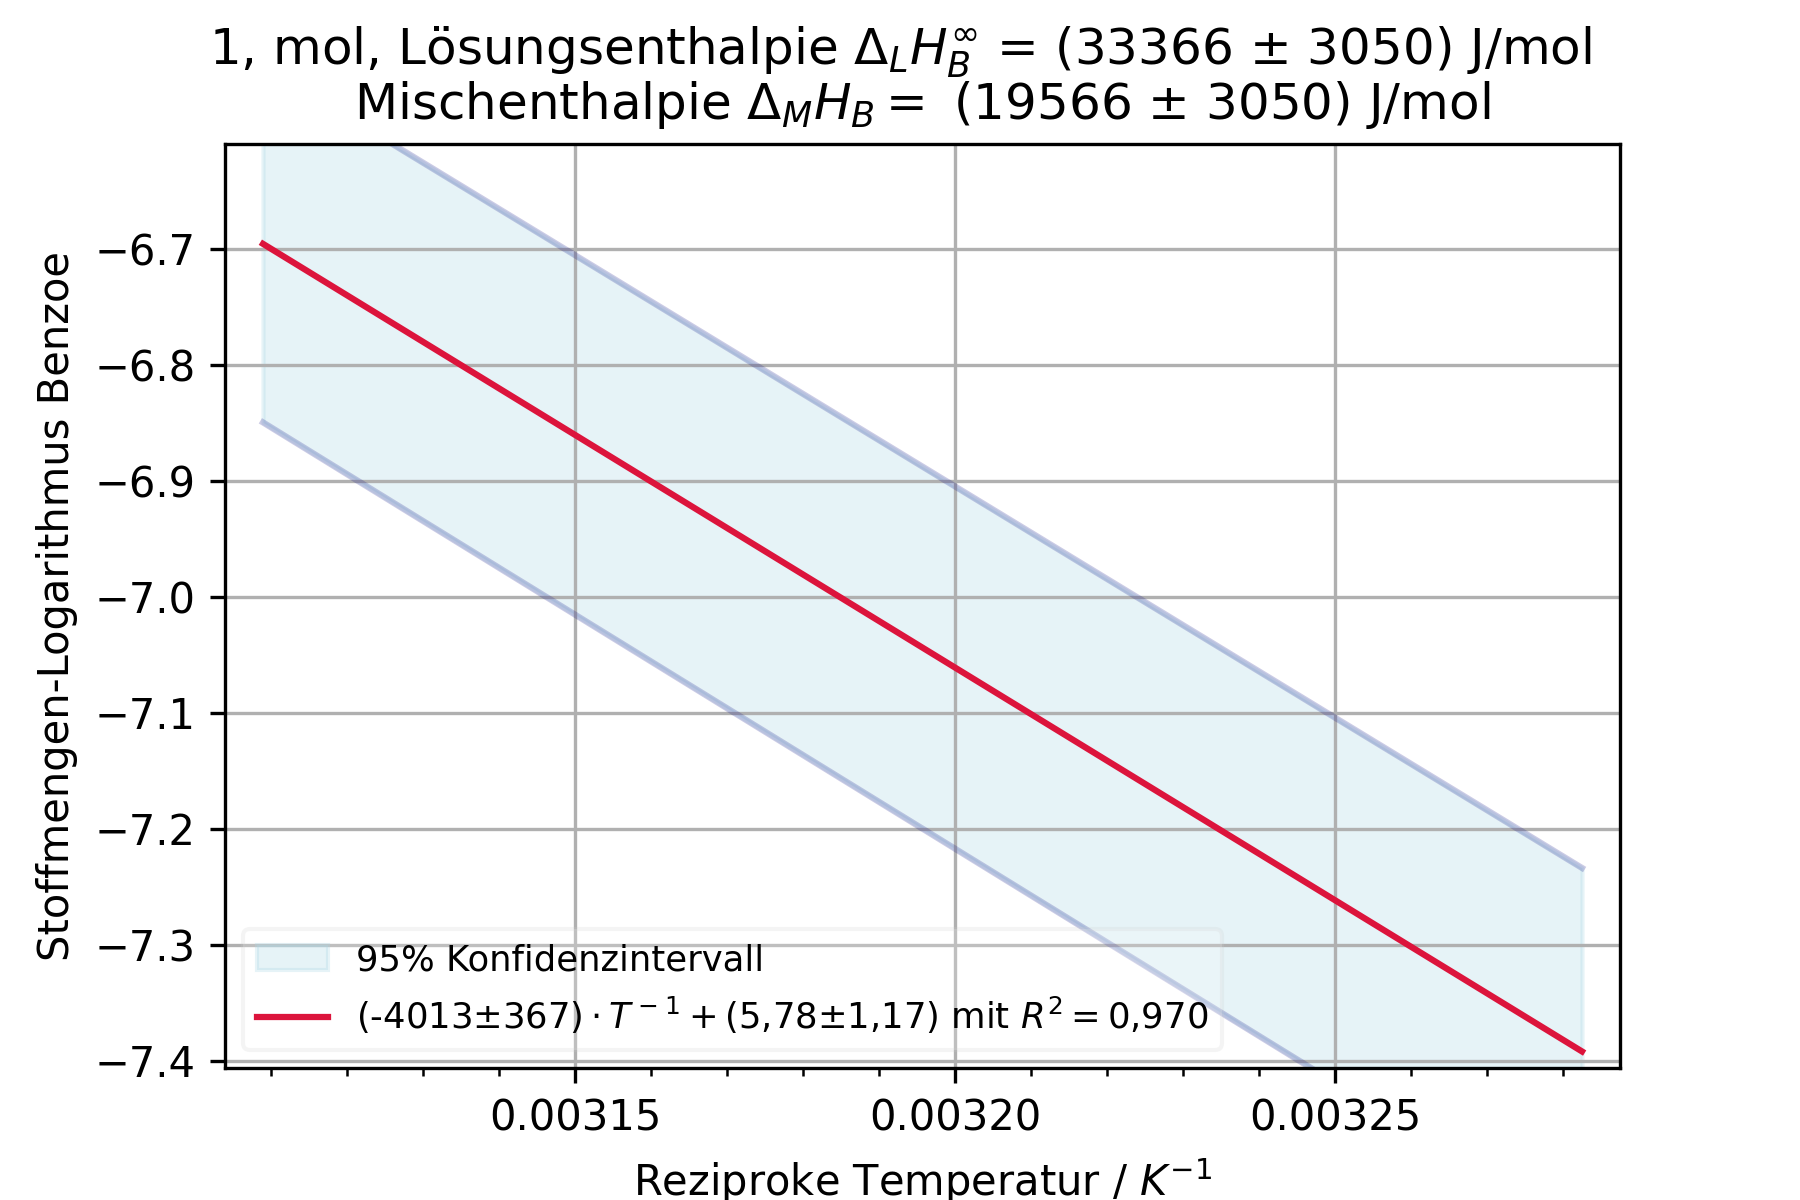
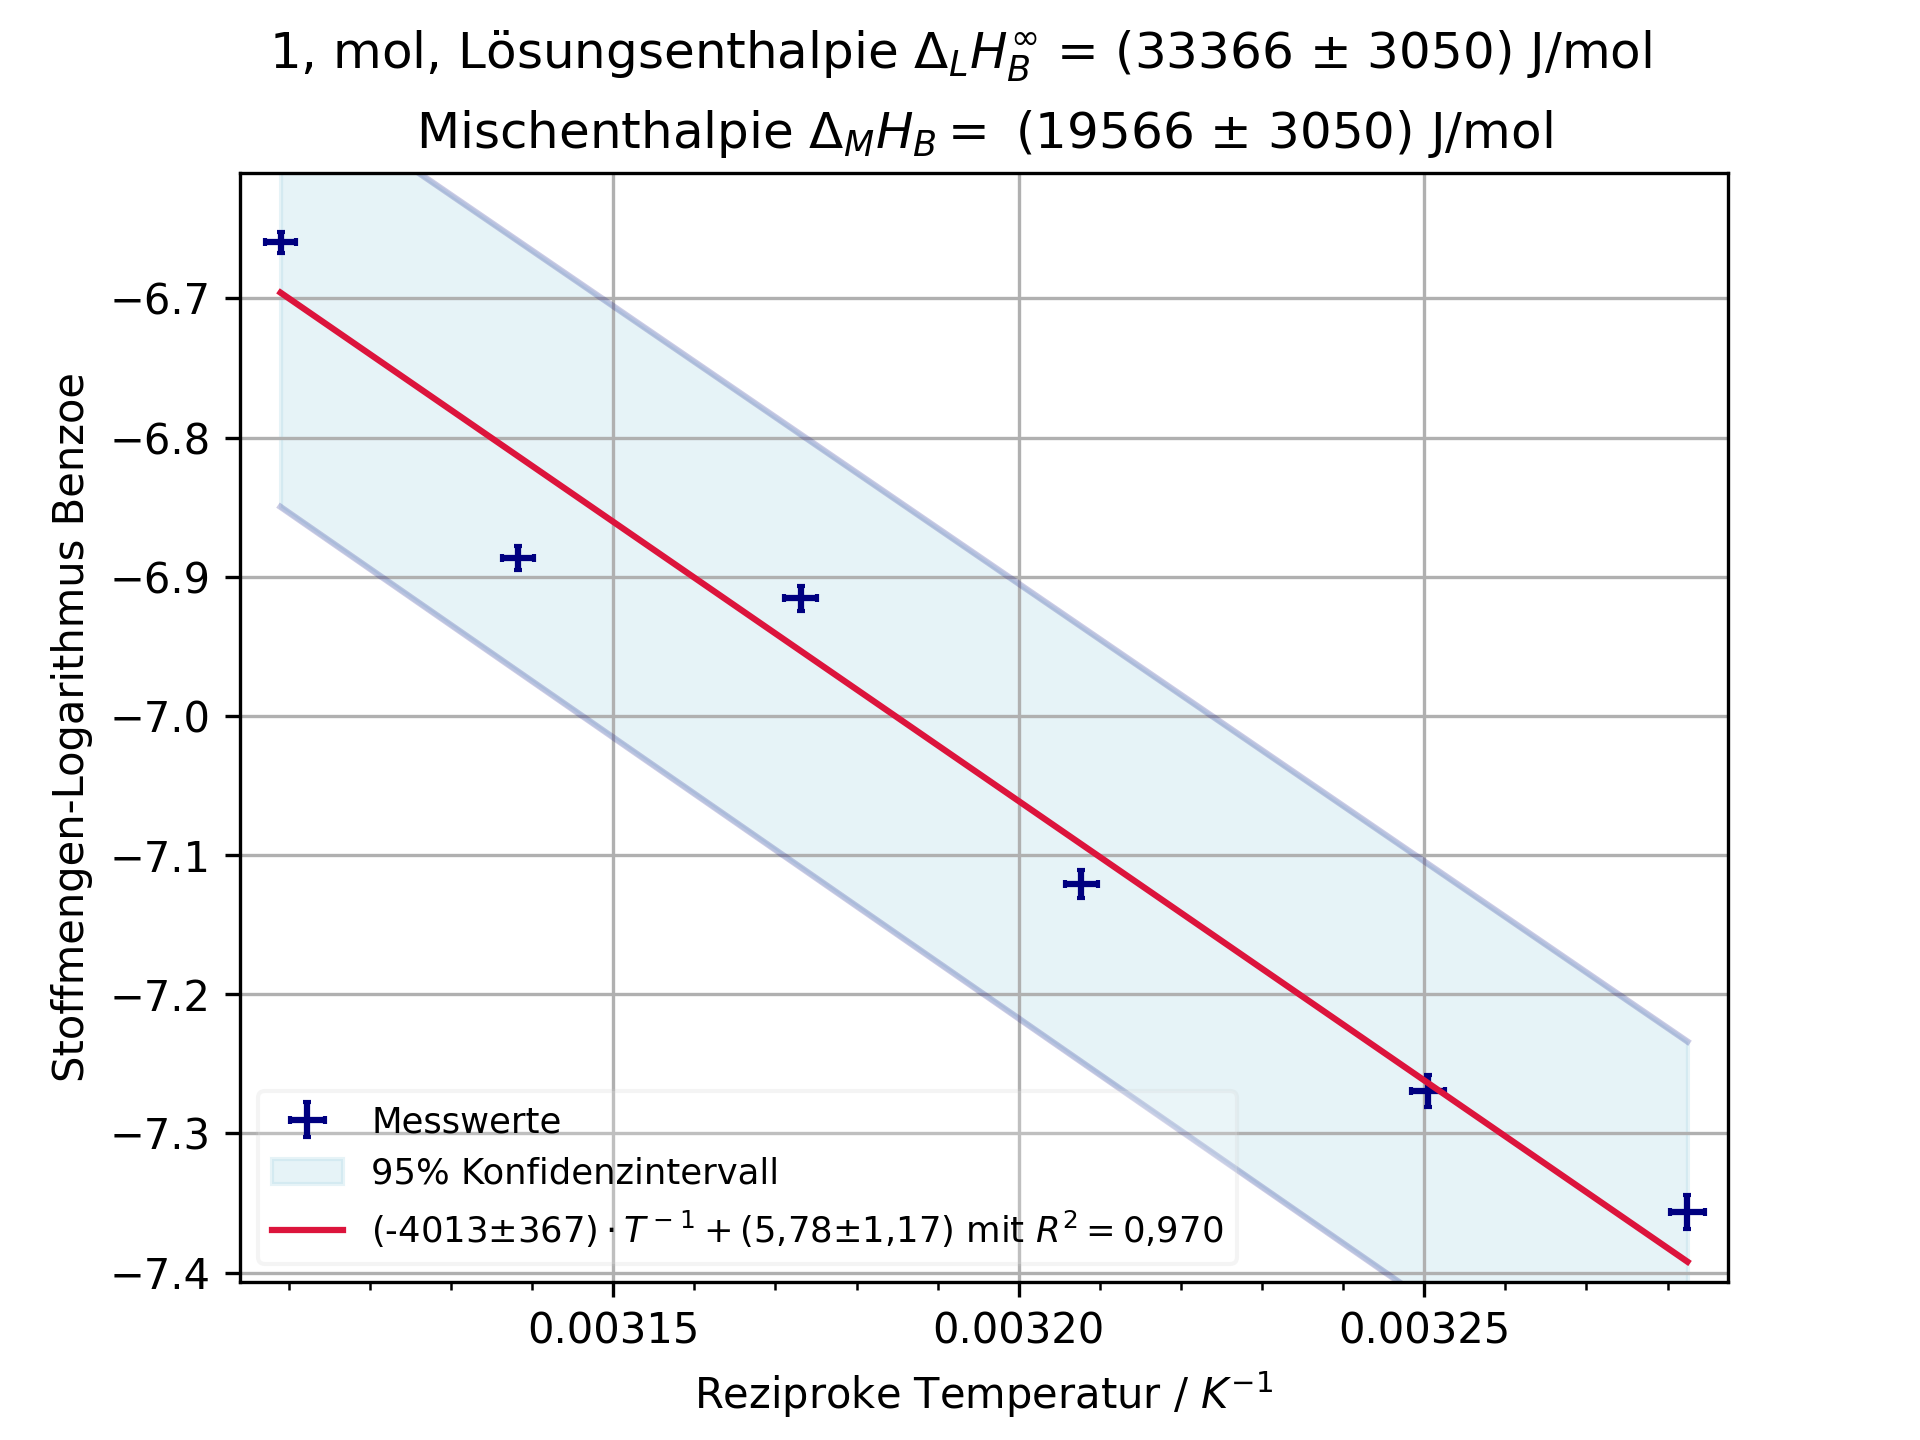
modified:   Daten/Ideal_SS_25.csv 	new file:   Daten/Wasser_SS_23.csv 	new file:   Daten/Wasser_WS_22_23.csv 	new file:   Daten/Wasser_WS_23_24.csv 	renamed:    Daten/Wasser_WS_24-25.csv -> Daten/Wasser_WS_24_25.csv 	modified:   "L\303\266sungen.py" 	new file:   PNG/Wasser_SS_23/Wasser A1 Benzoe.png

diff --git a/Lösungen.py b/Lösungen.py
@@ -8,29 +8,23 @@ from matplotlib.ticker import MultipleLocator
 import os
 
 
-global ax, fig
 fig, ax = plt.subplots()
-fig.set_size_inches(6, 4)
+
 path = os.path.dirname(os.path.abspath(__file__))
-# CTable = ['deeppink', 'purple', 'indigo', 'blue', 'cornflowerblue', 'cadetblue', 'lightseagreen', 'seagreen', 'darkorange', 'coral', 'crimson' ]
+CTable = ['deeppink', 'blue', 'seagreen', 'darkorange', 'crimson' ]
+Semester_Names = ['WS_22_23', 'SS_23', 'WS_23_24','WS_24_25', 'SS_25']
 
+Data = pd.DataFrame()
+Data_ideal = pd.DataFrame()
+for i in range(len(Semester_Names)):
+    Data_temp = pd.read_table(f'{path}\\Daten\\Wasser_{Semester_Names[i]}.csv', sep=",", header=0, index_col=0)
+    Data_temp.index = [f'{i+1}_' + str(idx) for idx in Data_temp.index]
+    Data = pd.concat([Data, Data_temp])
+    # Data_ideal_temp = pd.read_table(f'{path}\\Daten\\Ideal_{Semester_Names[i]}.csv', sep=",", header=0, index_col=0)
+    # Data_ideal_temp.index = [f'{i+1}' + str(idx) for idx in Data_ideal_temp.index]
+    # Data_ideal = pd.concat([Data_ideal, Data_ideal_temp])
+ 
 
-#Einlesen der Daten und Definition der Gruppen und Stoffe
-Data1 = pd.read_table(f'{path}\\Daten\\Wasser_WS_24-25.csv', sep=",", header=0, index_col=0)
-Data1.index = ['4_' + str(idx) for idx in Data1.index]
-
-Data2 = pd.read_table(f'{path}\\Daten\\Wasser_SS_25.csv', sep=",", header=0, index_col=0)
-Data2.index = ['5_' + str(idx) for idx in Data2.index]
-
-Data = pd.concat([Data1, Data2])
-
-Data_ideal1 = pd.read_table(f'{path}\\Daten\\Ideal_WS_24-25.csv', sep=",", header=0, index_col=0)
-Data_ideal1.index = ['4_' + str(idx) for idx in Data_ideal1.index]
-
-Data_ideal2 = pd.read_table(f'{path}\\Daten\\Ideal_SS_25.csv', sep=",", header=0, index_col=0)
-Data_ideal2.index = ['5_' + str(idx) for idx in Data_ideal2.index]
-
-Data_ideal = pd.concat([Data_ideal1, Data_ideal2])
 
 Gruppen = ['A1', 'A2', 'A3', 'A4', 'A5', 'A6', 'A7', 'B1', 'B2', 'B3', 'B4', 'B5','B6', 'B7']
 Stoffe = ['Benzoe', 'Salicyl']
@@ -70,40 +64,40 @@ def Fit(x,y,sx,sy):
 
 # Plot der Auswertung samt Konfidenzintervall und Regression
 def FitPlot(Rez_T, ln_x_B, Rez_T_Error, ln_x_B_Error, H_mLinf, H_mLinf_Error, Mischenthalpie, Mischenthalpie_Error, Gruppe, Stoff, out, plot, semester):
-    if plot == True:
-        ax.errorbar(Rez_T, ln_x_B, xerr=Rez_T_Error, yerr=ln_x_B_Error, color='navy', capsize=1, linestyle='none', label='Messwerte')
-    # Konfidenzintervalle berechnen
-    xValues = np.linspace(min(Rez_T), max(Rez_T), len(Rez_T))
-    ci = ConfidenceInterval(xValues, out)
-    ci_lower = lin(ci[:, 0], xValues)
-    ci_upper = lin(ci[:, 1], xValues)
-    ax.fill_between(xValues, ci_lower, ci_upper, color='lightblue', alpha=0.3, label='95% Konfidenzintervall')
-    ax.plot(xValues, ci_lower, color='navy', alpha=0.2)
-    ax.plot(xValues, ci_upper, color='navy', alpha=0.2)
-    # Fit-Funktion plotten
-    fy = lin(out.beta, xValues)
-    ax.plot(xValues, fy, c='crimson',label = Replacer(f'({out.beta[0]:.0f}$\pm${out.sd_beta[0]:.0f}$) \cdot T^-$$^1 + $({out.beta[1]:.2f}$\pm${out.sd_beta[1]:.2f}) mit $R^2 =${r2_score(ln_x_B, lin(out.beta, Rez_T)):.3f}'))
-    # Reihenfolge der Legende ändern
-    handles, labels = ax.get_legend_handles_labels() 
-    handles = handles[2:] + handles[:2]
-    labels = labels[2:] + labels[:2]
-    # Plot Parameter
-    plt.xlim(min(Rez_T)-0.000005, max(Rez_T)+0.000005)
-    plt.ylim(min(ln_x_B)-0.05, max(ln_x_B)+0.05)
-    ax.set(xlabel='Reziproke Temperatur / $ K^{-1}$', ylabel=f'Stoffmengen-Logarithmus {Stoff}')
-    fig.suptitle(Replacer(f'1. mol. Lösungsenthalpie $\Delta_LH_B^\infty$ = ({H_mLinf:.0f} $\pm$ {H_mLinf_Error:.0f}) J/mol'), fontsize=12)
-    ax.set_title(Replacer(f'Mischenthalpie $\Delta_MH_B =$ ({Mischenthalpie:.0f} $\pm$ {Mischenthalpie_Error:.0f}) J/mol'))
-    ax.legend(handles, labels, loc='lower left', framealpha=0.2, fontsize=8.5)
-    ax.grid()
-    ax.xaxis.set_major_locator(MultipleLocator(0.00005))
-    ax.xaxis.set_minor_locator(MultipleLocator(0.00001))
-    if semester == '4':
-        fig.savefig(f'{path}\\PNG\\Wasser_WS_24_25\\Wasser {Gruppe} {Stoff}.png', dpi=300)
-    elif semester == '5':
-        fig.savefig(f'{path}\\PNG\\Wasser_SS_25\\Wasser {Gruppe} {Stoff}.png', dpi=300)
-    elif semester == 'Zusammen':
-        fig.savefig(f'{path}\\PNG\\Zusammen_{Stoff}.png', dpi=300)
-    plt.cla()
+    if plot == True: 
+        if semester != 'Zusammen':
+            ax.errorbar(Rez_T, ln_x_B, xerr=Rez_T_Error, yerr=ln_x_B_Error, color='navy', capsize=1, linestyle='none', label='Messwerte')
+        # Konfidenzintervalle berechnen
+        xValues = np.linspace(min(Rez_T), max(Rez_T), len(Rez_T))
+        ci = ConfidenceInterval(xValues, out)
+        ci_lower = lin(ci[:, 0], xValues)
+        ci_upper = lin(ci[:, 1], xValues)
+        ax.fill_between(xValues, ci_lower, ci_upper, color='lightblue', alpha=0.3, label='95% Konfidenzintervall')
+        ax.plot(xValues, ci_lower, color='navy', alpha=0.2)
+        ax.plot(xValues, ci_upper, color='navy', alpha=0.2)
+        # Fit-Funktion plotten
+        fy = lin(out.beta, xValues)
+        ax.plot(xValues, fy, c='crimson',label = Replacer(f'({out.beta[0]:.0f}$\pm${out.sd_beta[0]:.0f}$) \cdot T^-$$^1 + $({out.beta[1]:.2f}$\pm${out.sd_beta[1]:.2f}) mit $R^2 =${r2_score(ln_x_B, lin(out.beta, Rez_T)):.3f}'))
+        # Reihenfolge der Legende ändern
+        handles, labels = ax.get_legend_handles_labels() 
+        handles = handles[2:] + handles[:2]
+        labels = labels[2:] + labels[:2]
+        # Plot Parameter
+        plt.xlim(min(Rez_T)-0.000005, max(Rez_T)+0.000005)
+        plt.ylim(min(ln_x_B)-0.05, max(ln_x_B)+0.05)
+        ax.set(xlabel='Reziproke Temperatur / $ K^{-1}$', ylabel=f'Stoffmengen-Logarithmus {Stoff}')
+        fig.suptitle(Replacer(f'1. mol. Lösungsenthalpie $\Delta_LH_B^\infty$ = ({H_mLinf:.0f} $\pm$ {H_mLinf_Error:.0f}) J/mol'), fontsize=12)
+        ax.set_title(Replacer(f'Mischenthalpie $\Delta_MH_B =$ ({Mischenthalpie:.0f} $\pm$ {Mischenthalpie_Error:.0f}) J/mol'))
+        ax.legend(handles, labels, loc='lower left', framealpha=0.2, fontsize=8.5)
+        ax.grid()
+        ax.xaxis.set_major_locator(MultipleLocator(0.00005))
+        ax.xaxis.set_minor_locator(MultipleLocator(0.00001))
+
+        if semester != 'Zusammen':
+            fig.savefig(f'{path}\\PNG\\Wasser_{Semester_Names[semester-1]}\\Wasser {Gruppe} {Stoff}.png', dpi=300)
+        else:
+            fig.savefig(f'{path}\\PNG\\Zusammen_{Stoff}.png', dpi=300)
+        plt.cla()
 
 
 # Auswertung der wässrigen Lösungen 
@@ -146,7 +140,7 @@ def Auswertung(Gruppe, Stoff, Print, semester):
         # Ideale Löslichkeit
         x_B_id = np.exp(-18000/8.31446*(1/(T_Data)-1/395.5))
         x_B_id_Error = abs(x_B_id*18000*T_Error/(8.31446*(T_Data)**2))
-    FitPlot(Rez_T, ln_x_B, Rez_T_Error, ln_x_B_Error, H_mLinf, H_mLinf_Error, Mischenthalpie, Mischenthalpie_Error, Gruppe, Stoff, out, True, semester)
+    FitPlot(Rez_T, ln_x_B, Rez_T_Error, ln_x_B_Error, H_mLinf, H_mLinf_Error, Mischenthalpie, Mischenthalpie_Error, Gruppe, Stoff, out, False, semester)
     if Print == True:
         print()
         print(f'Gruppe: {Gruppe}, Stoff: {Stoff}')
@@ -156,7 +150,6 @@ def Auswertung(Gruppe, Stoff, Print, semester):
         for i in range(len(x_B_id)):
             print(f'({x_B_id[i]:.4f} \pm {x_B_id_Error[i]:.4f}) bei ({T_Data[i]:.2f} \pm {T_Error[i]:.2f}) K')
         print()
-    
     return [Rez_T, ln_x_B, Rez_T_Error, ln_x_B_Error, H_mLinf, H_mLinf_Error, Mischenthalpie, Mischenthalpie_Error, Gruppe, semester]
 
 
@@ -199,27 +192,23 @@ def Ideal(Gruppe, Print=True):
             print(f'Die exp. Löslichkeit beträgt:   {x_B:.4g} \pm {x_B_lit:.2g}')
             print(f'Die Abweichung des exp. Werts vom Literaturwert beträgt ({100*Abweichung_ideal:.1f} \pm {100*Abweichung_Ideal_Error:.1f})%')
             print()
+        return [x_B, x_B_Error, x_B_lit, x_B_lit_Error, T_ideal, T_Error]
 
 
 # Abfrage für alle Gruppen
-def AlleAbfragen(Print = True):
+def AlleAbfragen(Semesterauswahl = [1, 2, 3, 4, 5], Probegruppe = None, Print = True):
     Salicyl = []
     Benzoe = []
-    for i in Gruppen:
-        for j in Stoffe:
-            if f'4_T({i}_{j[:1]})' in Data.index:
-                Output = Auswertung(i, j, Print, '4')
-                if j == 'Salicyl':
-                    Salicyl.append(Output)
-                elif j == 'Benzoe':
-                    Benzoe.append(Output)
-            if f'5_T({i}_{j[:1]})' in Data.index:
-                Output = Auswertung(i, j, Print, '5')
-                if j == 'Salicyl':
-                    Salicyl.append(Output)
-                elif j == 'Benzoe':
-                    Benzoe.append(Output)
-        Ideal(i, Print)
+    for k in Semesterauswahl:
+        for i in Gruppen:
+            for j in Stoffe:
+                if f'{k}_T({i}_{j[:1]})' in Data.index:
+                    Output = Auswertung(i, j, Print, k)
+                    if j == 'Salicyl':
+                        Salicyl.append(Output)
+                    elif j == 'Benzoe':
+                        Benzoe.append(Output)
+            Ideal(i, Print)
     # Plot für alle Messwerte, Wasser
     Name = ['Salicyl', 'Benzoe']
     for j in range(2):
@@ -227,15 +216,18 @@ def AlleAbfragen(Print = True):
             Stoff = Salicyl
         elif j == 1:
             Stoff = Benzoe
+        for k in Semesterauswahl:
+            plt.errorbar([],[], color=CTable[k-1], capsize=1, label=f'{Semester_Names[k-1]}', marker = '+', linestyle='none', markersize=12)            
         for i in range(len(Stoff)):
-            if f'{Stoff[i][9]}_T({Stoff[i][8]}_{Name[j][:1]})' != '5_T(B4_B)':
-                plt.errorbar(Stoff[i][0], Stoff[i][1], xerr=Stoff[i][2], yerr=Stoff[i][3], capsize=1.5, linestyle='none', color='black')  #CTable[i], , label=f'{Stoff[i][9]}_{Stoff[i][8]}'
+            if f'{Stoff[i][9]}_T({Stoff[i][8]}_{Name[j][:1]})' == Probegruppe:
+                plt.errorbar(Stoff[i][0], Stoff[i][1], xerr=Stoff[i][2], yerr=Stoff[i][3], capsize=1.5, linestyle='none', color='black', zorder=2) 
             else:
-                plt.errorbar(Stoff[i][0], Stoff[i][1], xerr=Stoff[i][2], yerr=Stoff[i][3], capsize=1.5, linestyle='none', color='crimson') # , label=f'{Stoff[i][9]}_{Stoff[i][8]}'
+                plt.errorbar(Stoff[i][0], Stoff[i][1], xerr=Stoff[i][2], yerr=Stoff[i][3], capsize=1, linestyle='none', color=CTable[Stoff[i][9]-1], zorder=1, linewidth=1)
         ln_x_B = np.concatenate([Stoff[i][1] for i in range(len(Stoff))])
         ln_x_B_Error = np.concatenate([Stoff[i][3] for i in range(len(Stoff))])
         Rez_T = np.concatenate([Stoff[i][0] for i in range(len(Stoff))])
         Rez_T_Error = np.concatenate([Stoff[i][2] for i in range(len(Stoff))])
+
         out = Fit(Rez_T, ln_x_B, Rez_T_Error, ln_x_B_Error)
         H_mLinf = -out.beta[0]*8.314
         H_mLinf_Error = out.sd_beta[0]*8.314
@@ -244,9 +236,19 @@ def AlleAbfragen(Print = True):
         elif j == 1:
             Mischenthalpie = H_mLinf - 13800
         Mischenthalpie_Error = H_mLinf_Error
-        print(len(Rez_T), Name[j])
         FitPlot(Rez_T, ln_x_B, Rez_T_Error, ln_x_B_Error, H_mLinf, H_mLinf_Error, Mischenthalpie, Mischenthalpie_Error, 'Zusammen', Name[j], out, True, 'Zusammen')
-        
+    plt.close()
+    # Plot für die ideale Löslichkeit
+    Ideal_Bulk = []
+    for i in Gruppen:
+        for k in range(len(Semester_Names)):
+            if f'{k+1}_T({i}_{Stoffe[0][:1]})' in Data_ideal.index:
+                Ideal_Bulk.append(Ideal(f'{k+1}_T({i}_{Stoffe[0][:1]})'), False)
+                
+    for i in range(len(Ideal_Bulk)):
+        plt.errorbar(Ideal_Bulk[i][4], Ideal_Bulk[i][0], xerr=Ideal_Bulk[i][5], yerr=Ideal_Bulk[i][1], capsize=1.5, linestyle='none', color='black')
+        plt.errorbar(Ideal_Bulk[i][4], Ideal_Bulk[i][2], xerr=Ideal_Bulk[i][5], yerr=Ideal_Bulk[i][3], capsize=1.5, linestyle='none', color='crimson')
+    plt.savefig(f'{path}\\PNG\\Zusammen_Ideal.png')
     
 
 # Abfrage für eine Gruppe, Wasser
@@ -271,8 +273,8 @@ def EineGruppe(Gruppe, semester, Print = True):
 # # Mögliche Auswertmethoden:
 
 # EineAbfrage('A5', 'Benzoe', True) # Einzelne Gruppe und einzelner Stoff
-EineGruppe('B4', '5') # Eine Gruppe und beide Stoffe sowie die ideale Lösung
+# EineGruppe('B4', '5') # Eine Gruppe und beide Stoffe sowie die ideale Lösung
 # Ideal('A1') # Ideale Lösung für eine Gruppe
 
-# AlleAbfragen(False)  # Alle Gruppen und Stoffe. Optional Print=True/False für Ausgabe der Ergebnisse
+AlleAbfragen([1, 2, 3, 4, 5], '5_T(B4_B)', False)  # Alle Gruppen und Stoffe. Optional Print=True/False für Ausgabe der Ergebnisse
 
